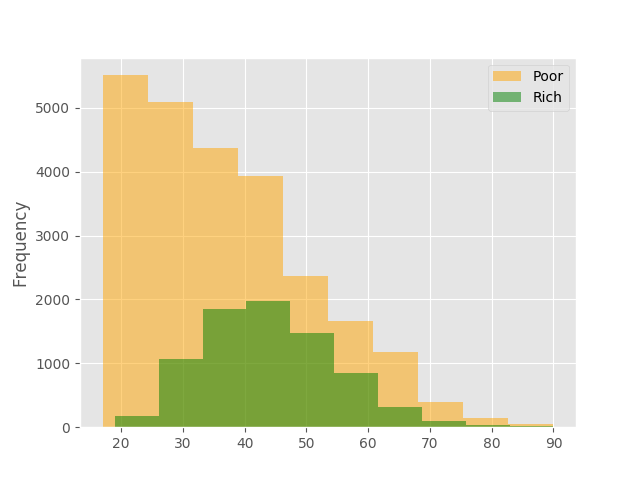
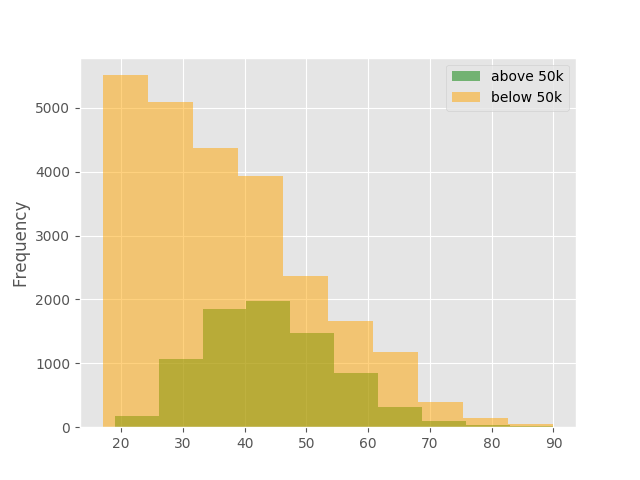
added plotting functions

Changed region(s): [[0.1562, 0.625, 0.7812, 0.9062], [0.6875, 0.125, 0.875, 0.2188]]

diff --git a/data_prep_mine.py b/data_prep_mine.py
@@ -5,10 +5,14 @@ matplotlib.style.use('ggplot')
 import numpy as np
 
 
-
 ########## Load data ###
 train2 = pd.read_csv('train_data_bank.csv')
 test2 = pd.read_csv('test_data_bank.csv')
+
+# convert Income.Group to be boolean
+bool_income_d = {'<=50K': True, '>50K': False}
+train2['Income.Group'] = train2['Income.Group'].map(bool_income_dd)
+
 
 ########## 4. Data Exploration ###
 
@@ -18,34 +22,42 @@ train2.info()
 train2.describe()
 train2.describe(include=['O'])
 
-# convert Income.Group to be boolean
-d = {'<=50K': True, '>50K': False}
-train2['Income.Group'] = train2['Income.Group'].map(d)
 
 ##### AGE #####
-
 train2['Age'].plot.hist()
-plt.savefig('age_hist.png')
+plt.savefig('age_simple_hist.png')
 
-poor = train2[train2['Income.Group'] == True]
-rich = train2[train2['Income.Group'] == False]
-poor['Age'].plot.hist(alpha=0.5, color='orange')
-rich['Age'].plot.hist(alpha=0.5, color='green')
-plt.legend(['Poor', 'Rich'])
-plt.savefig('age_hist.png')
+def plot_hist_for_continuous(df_train, group_names, predictor_label, target_label, colors):
+    """
+    Takes two columns from train df and plots histogram
+    :param df_train: data frame with train data
+    :param group_names: names for 2 groups of target variable, first for false then for true values
+    :param predictor_label: name of predictor variable
+    :param target_label: name of target variable
+    :param colors: list of colors for each group
+    :return: saves a histogram with data distribution comparing target and predictor
+    """
+    zeroes = df_train[df_train[target_label] == False]
+    ones = df_train[df_train[target_label] == True]
+    zeroes[predictor_label].plot.hist(alpha=0.5, color=colors[0])
+    ones[predictor_label].plot.hist(alpha=0.5, color=colors[1])
+    plt.legend(group_names)
+    plt.savefig(predictor_label+'_hist.png')
+
+plot_hist_for_continuous(train2, ['above 50k', 'below 50k'], 'Age', 'Income.Group', ['green', 'orange'])
 
 
 ##### WORKCLASS #####
-
-# check freq of specific values within variable
-train2['Workclass'].value_counts()
 train2['Workclass'].value_counts()/train2.shape[0]
 
-# pivot table and plot
-workclass_pivot = train2.pivot_table(index='Workclass', values='Income.Group')
-workclass_pivot.plot.bar(figsize=(10, 12))
-plt.savefig('workclass_pivot.png')
+def plot_pivot_bar(df_train, predictor_label, target_label):
+    predictor_pivot = df_train.pivot_table(index=predictor_label, values=target_label)
+    predictor_pivot.plot.bar(figsize=(10, 12))
+    plt.savefig(predictor_label+'_pivot.png')
 
+plot_pivot_bar(train2, 'Workclass', 'Income.Group')
+
+# For the same effect as pivot
 # cross-tab and plot (add percent)
 workclass_ct = pd.crosstab(train2['Workclass'], train2['Income.Group'], margins=True)
 workclass_ct.iloc[:-1,:-1].plot.bar(figsize=(10, 12), stacked=True, color=['green', 'orange'], grid=False)
@@ -59,79 +71,46 @@ workclass_ct_perc.iloc[:-1,:-1].plot.bar(figsize=(10, 12), stacked=True, color=[
 plt.savefig('workclass_incomegroup_cross_bar_perc.png')
 
 
-
-
 ##### EDUCATION #####
-
-train2['Education'].value_counts()
 train2['Education'].value_counts()/train2.shape[0]
-
-education_pivot = train2.pivot_table(index='Education', values='Income.Group')
-education_pivot.plot.bar(figsize=(10, 12))
-plt.savefig('education_pivot.png')
+plot_pivot_bar(train2, 'Education', 'Income.Group')
 
 
 ##### MARTIAL STATUS #####
-
 train2['Marital.Status'].value_counts()/train2.shape[0]
+plot_pivot_bar(train2, 'Marital.Status', 'Income.Group')
 
-mstatus_pivot = train2.pivot_table(index='Marital.Status', values='Income.Group')
-mstatus_pivot.plot.bar(figsize=(10, 12))
-plt.savefig('maritalstatus_pivot.png')
 
 ##### OCCUPATION #####
-
 train2['Occupation'].value_counts()/train2.shape[0]
-
-occ_pivot = train2.pivot_table(index='Occupation', values='Income.Group')
-occ_pivot.plot.bar(figsize=(10, 12))
-plt.savefig('occupation_pivot.png')
+plot_pivot_bar(train2, 'Occupation', 'Income.Group')
 
 
 ##### RELATIONSHIP #####
 train2['Relationship'].value_counts()/train2.shape[0]
-
-rel_pivot = train2.pivot_table(index='Relationship', values='Income.Group')
-rel_pivot.plot.bar(figsize=(10, 12))
-plt.savefig('relationship_pivot.png')
+plot_pivot_bar(train2, 'Relationship', 'Income.Group')
 
 
 ##### RACE #####
 train2['Race'].value_counts()/train2.shape[0]
-
-race_pivot = train2.pivot_table(index='Race', values='Income.Group')
-race_pivot.plot.bar(figsize=(10, 12))
-plt.savefig('race_pivot.png')
+plot_pivot_bar(train2, 'Race', 'Income.Group')
 
 
 ##### SEX #####
 train2['Sex'].value_counts()/train2.shape[0]
-
-sex_pivot = train2.pivot_table(index='Sex', values='Income.Group')
-sex_pivot.plot.bar(figsize=(10, 12))
-plt.savefig('sex_pivot.png')
+plot_pivot_bar(train2, 'Sex', 'Income.Group')
 
 
 ##### HOURS PER WEEK #####
-
 train2['Hours.Per.Week'].plot.hist()
-plt.savefig('hours_hist.png')
+plt.savefig('hours_simple_hist.png')
 
-poor = train2[train2['Income.Group'] == True]
-rich = train2[train2['Income.Group'] == False]
-poor['Hours.Per.Week'].plot.hist(alpha=0.5, color='orange')
-rich['Hours.Per.Week'].plot.hist(alpha=0.5, color='green')
-plt.legend(['Poor', 'Rich'])
-plt.savefig('hours_hist.png')
+plot_hist_for_continuous(train2, ['above 50k', 'below 50k'], 'Hours.Per.Week', 'Income.Group', ['green', 'orange'])
 
 
 ##### NATIVE COUNTRY #####
-
 train2['Native.Country'].value_counts()/train2.shape[0]
-
-sex_pivot = train2.pivot_table(index='Sex', values='Income.Group')
-sex_pivot.plot.bar(figsize=(10, 12))
-plt.savefig('sex_pivot.png')
+plot_pivot_bar(train2, 'Native.Country', 'Income.Group')
 
 
 ##### HANDLING NANS #####
@@ -140,7 +119,6 @@ occ_nans = list(np.where(train2['Occupation'].isnull())[0])
 
 diff = lambda l1,l2: [x for x in l1 if x not in l2]
 diff(work_nans, occ_nans)
-
 list(set(work_nans)-set(occ_nans))
 
 
@@ -183,7 +161,6 @@ Comment:
 """
 
 ##### OUTLIER TREATMENT #####
-
 train2.plot.scatter('ID', 'Age')
 plt.savefig('age_scatter.png')
 
@@ -192,13 +169,26 @@ plt.savefig('hours_scatter.png')
 
 
 ########## 4. Data Transformation ###
-
-# NaNs in Workclass and Occupation
 train_clean = train2.copy()
 test_clean = test2.copy()
 
-train_clean['Workclass'] = train_clean['Workclass'].replace(np.nan, 'Missing', regex=True)
-train_clean['Occupation'] = train_clean['Occupation'].replace(np.nan, 'Missing', regex=True)
+# NaNs in Workclass, Occupation, Native.Country
+
+def replace_nans(df_train, df_test, variable_labels, new_value):
+    """
+    Takes data frames with train and test values and replaces NaNs with new values
+    :param df_train: data frame with train data
+    :param df_test: data frame with test data
+    :param variable_label: list of variables labels which have NaN values
+    :param new_value: new string values for NaN
+    :return: two data frames with replaced NaNs
+    """
+    for var in variable_labels:
+        df_train[var] = df_train[var].replace(np.nan, new_value, regex=True)
+        df_test[var] = df_test[var].replace(np.nan, new_value, regex=True)
+
+replace_nans(train_clean, test_clean, ['Workclass', 'Occupation', 'Native.Country'], 'Missing')
+
 
 # Age - bins
 
@@ -217,10 +207,7 @@ def put_into_bins(df_train, df_test, variable_label, cut_points, labels):
     df_test[new_label] = pd.cut(df_test[variable_label], cut_points, labels=labels)
 
 put_into_bins(train_clean, test_clean, 'Age', [0, 30, 45, 60, 100], ['Young', 'Middle Lower', 'Middle Upper', 'Senior'])
-
-age_pivot = train_clean.pivot_table(index='Age_cat', values='Income.Group')
-age_pivot.plot.bar(figsize=(10, 12))
-plt.savefig('age_pivot.png')
+plot_pivot_bar(train_clean, 'Age_cat', 'Income.Group')
 
 
 # Workclass - new category (Private, Self-emp, Gov, No-Pay)
@@ -288,21 +275,13 @@ group_with_dict(train_clean, test_clean, 'Race', {'White':'white', 'Black':'blac
 
 # Hours.Per.Week - Most people work around 40 hours.Make bins: below 40, equals 40 and above 40
 put_into_bins(train_clean, test_clean, 'Hours.Per.Week', [0, 39, 40, 100], ['below_mode', 'equals_mode', 'above_mode'])
-
-hours_pivot = train_clean.pivot_table(index='Hours.Per.Week_cat', values='Income.Group')
-hours_pivot.plot.bar(figsize=(10, 12))
-plt.savefig('hours_pivot.png')
+plot_pivot_bar(train_clean, 'Hours.Per.Week_cat', 'Income.Group')
 
 
 # Native.Country - Try making two categories: USA and Others
-country_cat_dict = {}
-diff = lambda df: ['other' for x in df if x != 'United-States']
-train_clean['Native.Country'] = diff(train_clean['Native.Country'])
+group_minors(train_clean, test_clean, 'Native.Country', 0.02)
 
 
-for column in cat_variables_for_combining:
-    frq = train[column].value_counts()/train.shape[0]
-    cat_to_combine = frq.loc[frq.values<0.05].index
-    for category in cat_to_combine:
-        train[column].replace({category:'Others'}, inplace=True)
-        test[column].replace({category:'Others'}, inplace=True)
+
+########## 5. Predictive Modeling ###
+
